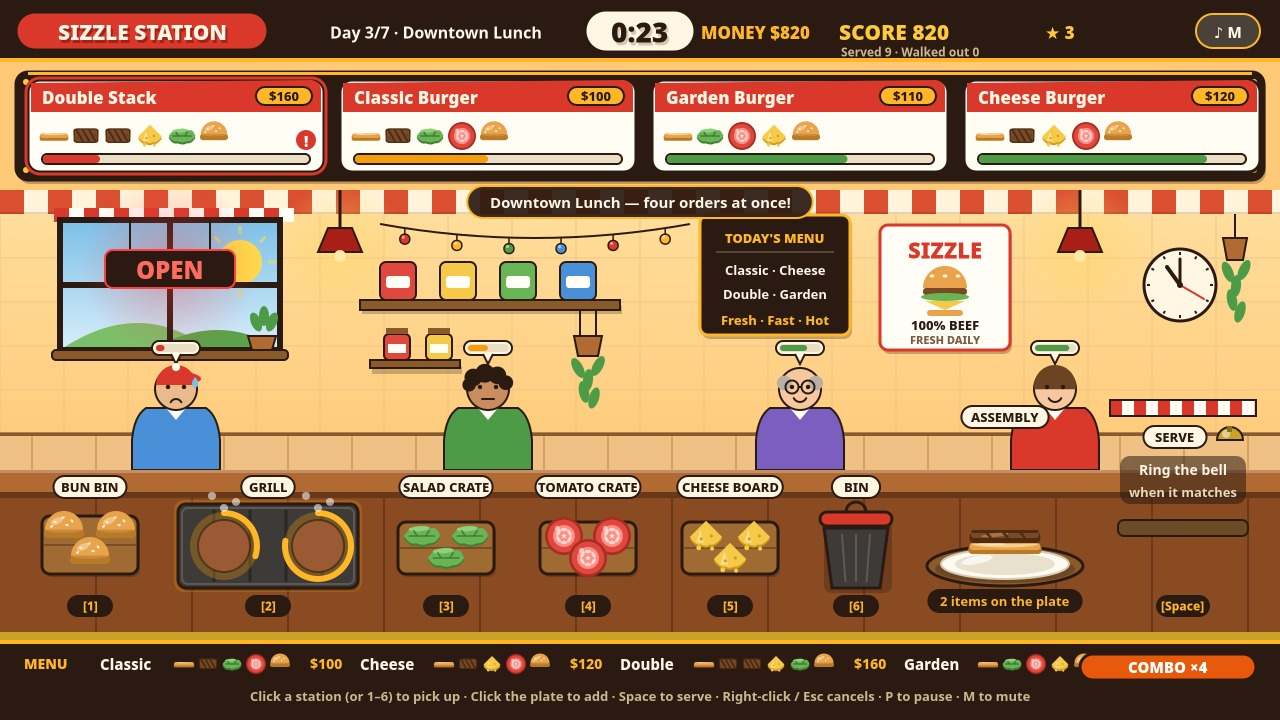
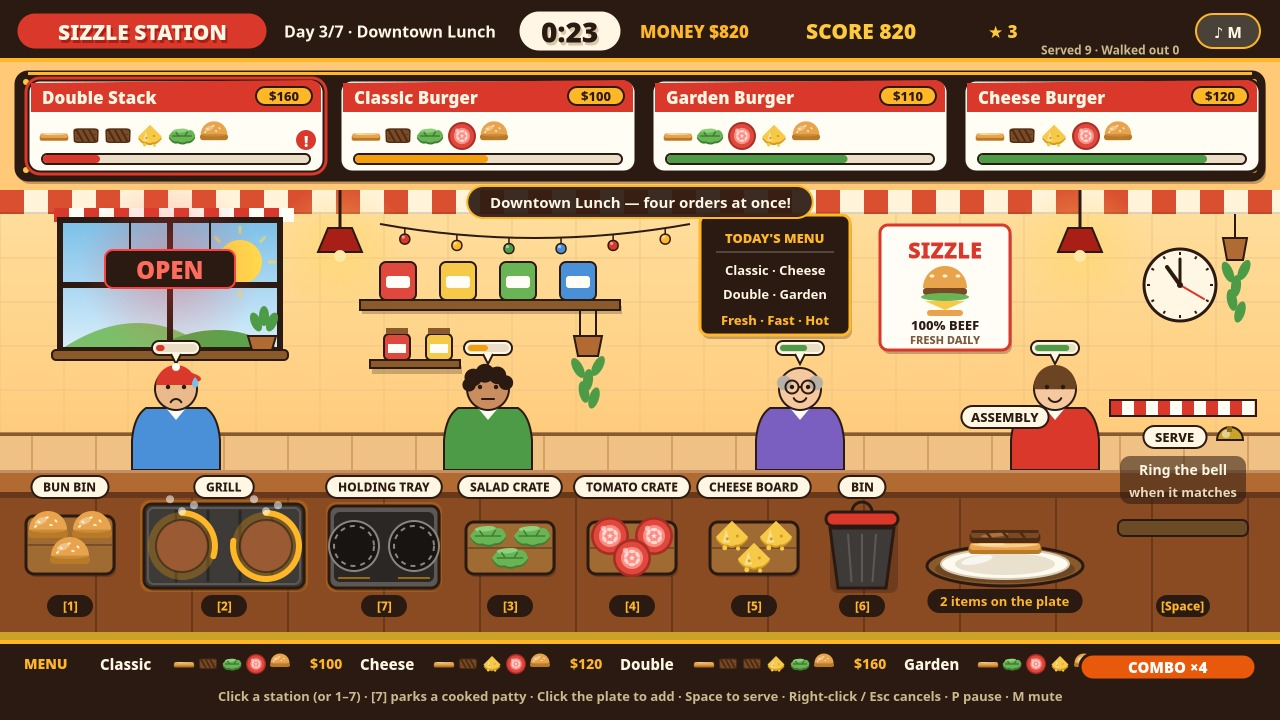
Fix HUD timer overlapping the MONEY label

diff --git a/game/src/render.js b/game/src/render.js
@@ -47,6 +47,16 @@ function display(ctx, str, x, y, size, colour, align = 'center', shadow = PALETT
   text(ctx, str, x, y, size, colour, align, '900');
 }
 
+// Draw text inside a fixed slot: measure at the base size and shrink the
+// font if the string is wider than the slot, so neighbouring HUD blocks
+// keep their gap in any font the browser falls back to.
+function fitText(ctx, str, x, y, maxW, size, colour, align = 'left', weight = '700', minSize = 10) {
+  ctx.font = `${weight} ${size}px system-ui, "Segoe UI", sans-serif`;
+  const w = ctx.measureText(str).width;
+  const fitted = w > maxW ? Math.max(minSize, size * (maxW / w)) : size;
+  text(ctx, str, x, y, fitted, colour, align, weight);
+}
+
 // A solid offset shadow for a card — cartoon depth, no blur cost.
 function cardShadow(ctx, x, y, w, h, r, dy = 5) {
   ctx.fillStyle = 'rgba(43,26,18,0.28)';
@@ -1604,15 +1614,20 @@ function drawHeader(ctx, world) {
   pill(ctx, 16, 12, 252, 38, PALETTE.red, PALETTE.ink, 3);
   display(ctx, 'SIZZLE STATION', 142, 32, 21, '#fff6e3', 'center', PALETTE.redDark);
   const day = DAYS[world.dayIndex];
-  text(ctx, `Day ${world.dayIndex + 1}/7 · ${day.name}`, 330, 32, 16, '#fff8e7', 'left', '700');
+  // Fixed HUD slots with clear gaps between them (logo ends at 268):
+  // day 284–502, timer pill 518–622, money 640–788, score 806–970,
+  // regulars 988–1064, mute button from 1196. Every label is fitted to
+  // its slot, so the timer can never touch MONEY and no block can grow
+  // into its neighbour whatever the values or font metrics.
+  fitText(ctx, `Day ${world.dayIndex + 1}/7 · ${day.name}`, 284, 31, 218, 16, '#fff8e7', 'left', '700', 12);
   // Timer in a cream pill; red when the clock is nearly out.
   const urgent = world.timeLeft <= 10 && world.screen === 'playing';
-  pill(ctx, 585, 10, 110, 42, urgent ? PALETTE.red : PALETTE.cream, PALETTE.ink, 3);
-  display(ctx, fmtTime(world.timeLeft), 640, 32, 28, urgent ? '#fff' : PALETTE.ink, 'center', urgent ? PALETTE.redDark : '#d8c9a8');
-  text(ctx, `MONEY $${world.money}`, 810, 32, 17, PALETTE.mustard, 'right', '900');
-  text(ctx, `SCORE ${world.score}`, 950, 32, 21, PALETTE.gold, 'right', '900');
-  text(ctx, `★ ${world.regulars}`, 1075, 32, 17, PALETTE.gold, 'right', '900');
-  text(ctx, `Served ${world.served} · Walked out ${world.expired}`, 980, 52, 12, '#cbb98f', 'right', '700');
+  pill(ctx, 518, 10, 104, 42, urgent ? PALETTE.red : PALETTE.cream, PALETTE.ink, 3);
+  display(ctx, fmtTime(world.timeLeft), 570, 32, 28, urgent ? '#fff' : PALETTE.ink, 'center', urgent ? PALETTE.redDark : '#d8c9a8');
+  fitText(ctx, `MONEY $${world.money}`, 640, 31, 148, 17, PALETTE.mustard, 'left', '900', 13);
+  fitText(ctx, `SCORE ${world.score}`, 806, 31, 164, 21, PALETTE.gold, 'left', '900', 15);
+  fitText(ctx, `★ ${world.regulars}`, 988, 31, 76, 17, PALETTE.gold, 'left', '900', 13);
+  fitText(ctx, `Served ${world.served} · Walked out ${world.expired}`, 1180, 50, 540, 12, '#cbb98f', 'right', '700', 10);
   // Mute button (rect is the click target in main.js — keep it).
   pill(ctx, 1196, 14, 64, 34, '#4a4238', PALETTE.mustard, 2);
   text(ctx, '♪ M', 1228, 32, 15, '#fff8e7', 'center', '800');
